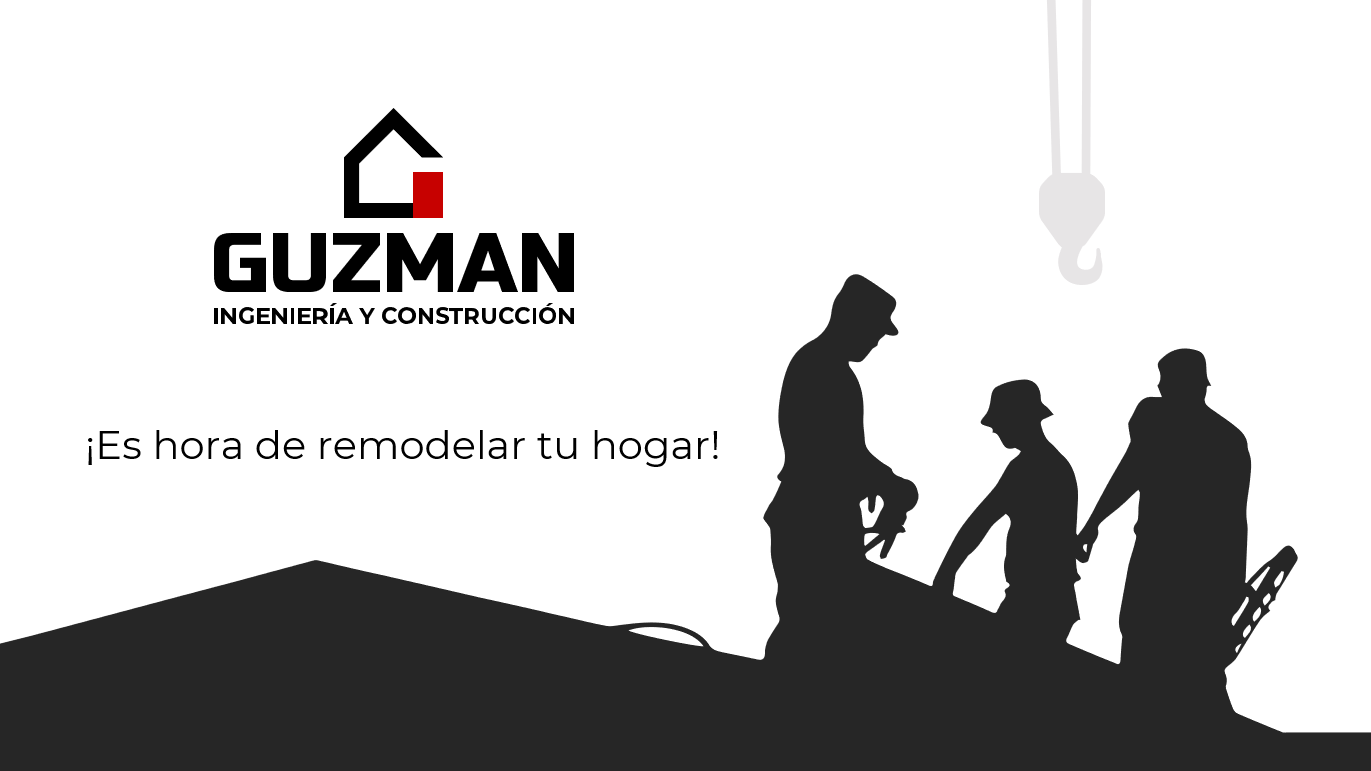
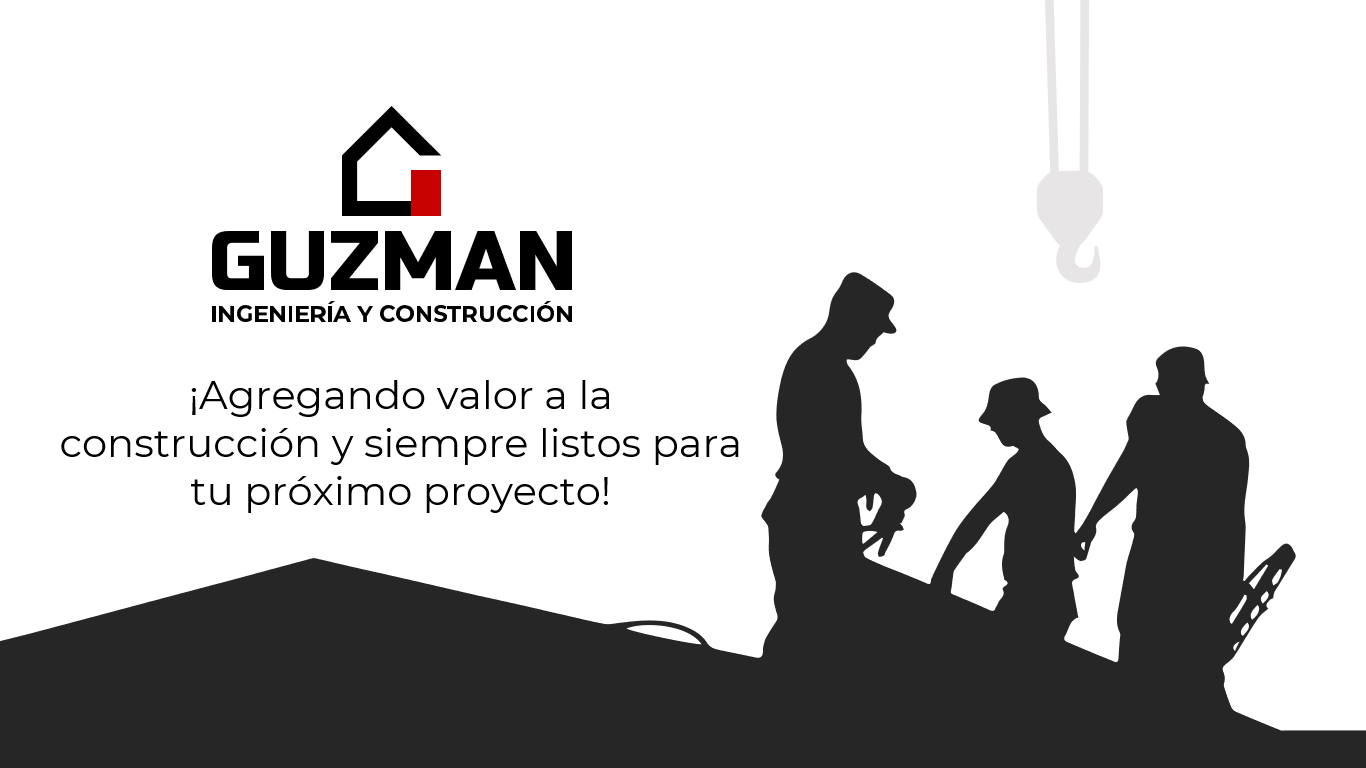
bg responsive

diff --git a/index.html b/index.html
@@ -70,7 +70,7 @@
     </nav>
 
     <section>
-      <div class="container">
+      <div class="">
         <div class="row">
           <div class="col">
             <div class="fondo d-none d-md-block"></div>
@@ -79,15 +79,16 @@
       </div>
       <div class="container">
         <div class="row">
-          <div class="col-md-6">
-            <div class="d-sm-none d-md-block ">
+          <div class="col-md-6 mt-5">
+            <div class="d-sm-none mt-3">
               <img src="./img/logos/Blanco/Logo1.png" alt="Logo1">
+              <h1 class="h1-responsive  text-center">Agregando valor a la construccón y siempre listos para tu próximo proyecto</h1>
             </div>
           </div>
         </div>
       </div>
     </section> 
-
+<!-- <hr class="bg-light"> -->
     <!-- <div class="container fondo view">
       <div class="fondo view">
           <div class="full-bg-img">

diff --git a/css/style.css b/css/style.css
@@ -1,5 +1,5 @@
 .fondo {
-    height: 100vh;
+    height: 98vh;
     background: url("https://raw.githubusercontent.com/PGP28/Front-End_Ing_V3/main/img/bg.png")no-repeat center center;
     background-size: cover;
 }
